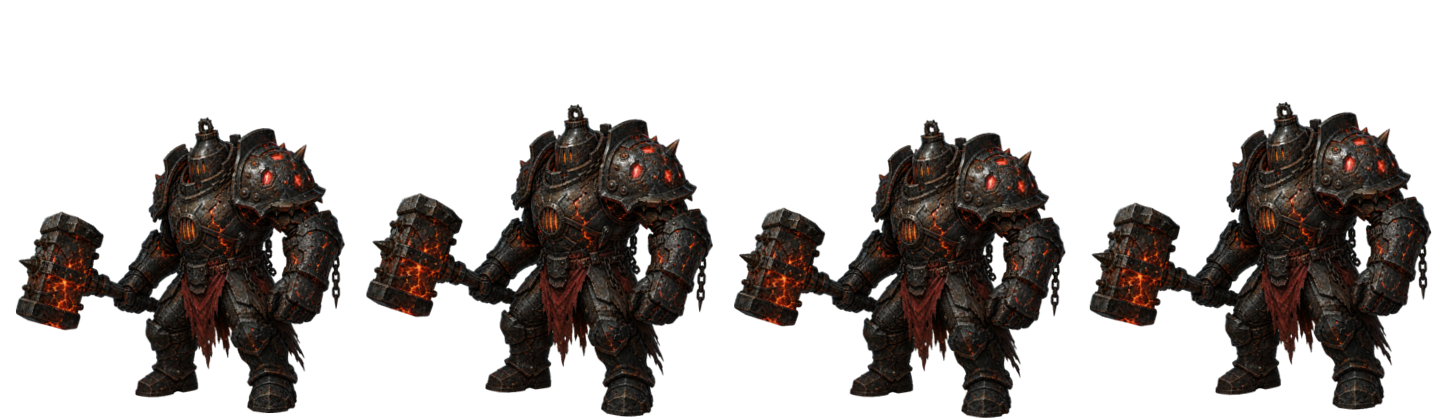
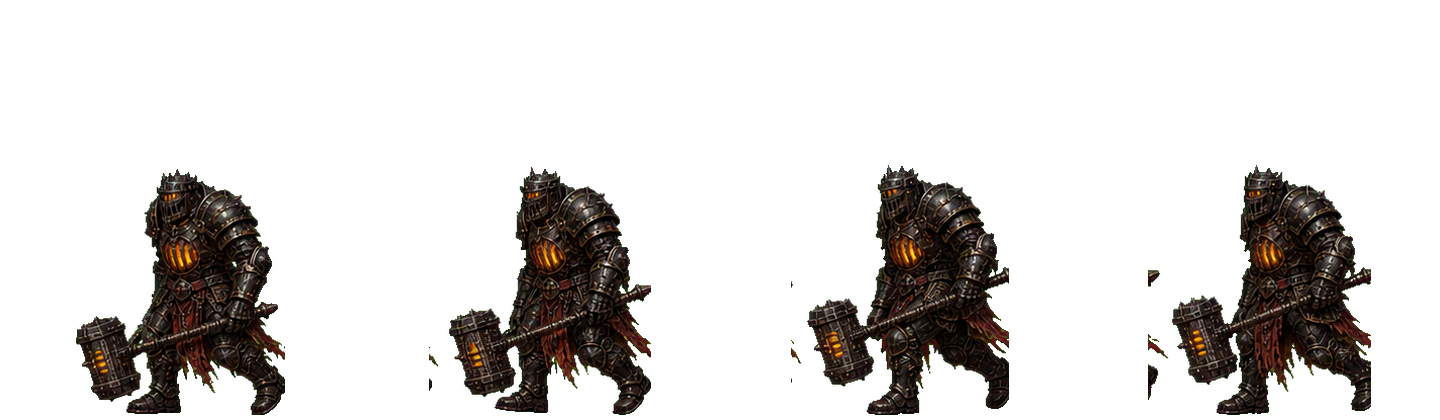
Refine enemy motion and encounter spacing

diff --git a/src/App.css b/src/App.css
@@ -737,8 +737,55 @@ button {
   animation-iteration-count: infinite;
 }
 
+.stage-combat .enemy-sprite.is-attacking::before,
+.stage-combat .enemy-sprite.is-attacking::after {
+  content: "";
+  position: absolute;
+  pointer-events: none;
+  z-index: 6;
+}
+
+.stage-combat .enemy-sprite.is-attacking::before {
+  left: clamp(-116px, -8.6vw, -72px);
+  bottom: clamp(132px, 17vw, 236px);
+  width: clamp(92px, 8.6vw, 132px);
+  height: clamp(38px, 4.6vw, 68px);
+  border-radius: 999px;
+  background:
+    radial-gradient(circle at 18% 52%, rgba(255, 231, 142, 0.95) 0 5%, transparent 18%),
+    linear-gradient(105deg, transparent 0 8%, rgba(255, 210, 102, 0.92) 12%, rgba(235, 73, 34, 0.74) 43%, transparent 78%);
+  filter: blur(0.2px) drop-shadow(0 0 8px rgba(255, 107, 46, 0.74));
+  opacity: 0;
+  transform: rotate(-10deg) scaleX(0.72);
+  transform-origin: 100% 50%;
+  animation: enemyAttackSlashFx 620ms steps(2, end) infinite;
+}
+
+.stage-combat .enemy-sprite.is-attacking::after {
+  left: clamp(-54px, -3.7vw, -34px);
+  bottom: clamp(112px, 14vw, 198px);
+  width: clamp(38px, 3.8vw, 62px);
+  height: clamp(34px, 3.8vw, 58px);
+  background:
+    radial-gradient(circle, rgba(255, 235, 164, 0.92) 0 12%, rgba(255, 123, 43, 0.66) 20%, transparent 58%),
+    conic-gradient(from 24deg, transparent 0 12%, rgba(255, 191, 90, 0.88) 14% 18%, transparent 20% 36%, rgba(231, 62, 35, 0.8) 39% 43%, transparent 46%);
+  clip-path: polygon(50% 0, 64% 34%, 100% 42%, 68% 58%, 76% 100%, 50% 70%, 20% 100%, 30% 58%, 0 42%, 36% 34%);
+  opacity: 0;
+  transform: scale(0.62);
+  animation: enemyImpactSparkFx 620ms steps(2, end) infinite;
+}
+
+.stage-combat .enemy-sprite.enemy-sheet-beast.is-attacking::before {
+  bottom: clamp(86px, 11vw, 154px);
+  transform: rotate(3deg) scaleX(0.78);
+}
+
+.stage-combat .enemy-sprite.enemy-sheet-beast.is-attacking::after {
+  bottom: clamp(78px, 9.8vw, 136px);
+}
+
 .stage-combat .enemy-sprite.is-entering {
-  animation: enemyEnterFromRight 1.5s cubic-bezier(0.19, 0.82, 0.22, 1) both;
+  animation: enemyEnterFromRight 2.4s linear both;
   z-index: 2;
 }
 
@@ -763,13 +810,13 @@ button {
 @keyframes enemyEnterFromRight {
   0% {
     opacity: 0;
-    transform: translateX(42vw) translateY(0);
+    transform: translateX(46vw) translateY(0);
   }
-  12% {
+  8% {
     opacity: 1;
   }
-  55% {
-    transform: translateX(14vw) translateY(-4px);
+  50% {
+    transform: translateX(23vw) translateY(-3px);
   }
   100% {
     opacity: 1;
@@ -782,6 +829,22 @@ button {
   100% { transform: translateX(0) scaleX(1) scaleY(1); }
   42% { transform: translateX(-18px) scaleX(1.08) scaleY(0.96); }
   64% { transform: translateX(-8px) scaleX(1.03) scaleY(0.98); }
+}
+
+@keyframes enemyAttackSlashFx {
+  0%,
+  32% { opacity: 0; transform: translateX(18px) rotate(-10deg) scaleX(0.42); }
+  42% { opacity: 0.95; transform: translateX(-4px) rotate(-10deg) scaleX(1); }
+  68% { opacity: 0.42; transform: translateX(-14px) rotate(-10deg) scaleX(1.08); }
+  100% { opacity: 0; transform: translateX(-22px) rotate(-10deg) scaleX(1.12); }
+}
+
+@keyframes enemyImpactSparkFx {
+  0%,
+  40% { opacity: 0; transform: scale(0.42) rotate(0deg); }
+  48% { opacity: 0.95; transform: scale(1.05) rotate(12deg); }
+  72% { opacity: 0.35; transform: scale(0.88) rotate(28deg); }
+  100% { opacity: 0; transform: scale(0.64) rotate(40deg); }
 }
 
 .enemy-frame-viewport {

diff --git a/src/ui/__tests__/stageActors.test.ts b/src/ui/__tests__/stageActors.test.ts
@@ -1,6 +1,7 @@
 import { describe, expect, it } from 'vitest'
+import { ENCOUNTER_DISTANCE } from '../../engine/progression'
 import { createStarterState } from '../../persistence/starterState'
-import { deriveStageActors, ENEMY_ENTER_DURATION_MS } from '../stageActors'
+import { deriveStageActors, ENEMY_ENTER_DURATION_MS, ENEMY_POSITION_TRANSITION } from '../stageActors'
 
 describe('deriveStageActors', () => {
   it('uses walk resources while traveling', () => {
@@ -13,10 +14,10 @@ describe('deriveStageActors', () => {
     expect(scene.enemies.length).toBeGreaterThan(0)
     expect(scene.enemies[0].frame.kind).toBe('walk')
     expect(scene.enemies[0].frame.src).toContain(`${state.enemyGroup.members[0].enemyDefId.replaceAll('_', '-')}-walk-sheet.png`)
-    expect(scene.enemies[0].transition).toBe('left 0.9s linear')
+    expect(scene.enemies[0].transition).toBe(ENEMY_POSITION_TRANSITION)
   })
 
-  it('uses aligned attack frames and pauses the same enemy sheet in combat', () => {
+  it('uses aligned attack frames and skill vfx on the hero hit frame', () => {
     const state = {
       ...createStarterState(),
       stageMode: 'combat' as const,
@@ -30,10 +31,20 @@ describe('deriveStageActors', () => {
     }
     expect(scene.hitFrameActive).toBe(true)
     expect(scene.vfx?.src).toContain('/assets/game/')
+    expect(scene.enemies[0].transition).toBe(ENEMY_POSITION_TRANSITION)
+    expect(scene.enemies[0].showHealthbar).toBe(true)
+  })
+
+  it('keeps enemies idle before the presentation attack window', () => {
+    const state = {
+      ...createStarterState(),
+      stageMode: 'combat' as const,
+    }
+    const scene = deriveStageActors(state, 0)
+
+    expect(scene.enemies[0].state).toBe('idle')
     expect(scene.enemies[0].frame.kind).toBe('walk')
     expect(scene.enemies[0].frame.className).toContain('enemy-walk-sheet-idle')
-    expect(scene.enemies[0].transition).toBe('none')
-    expect(scene.enemies[0].showHealthbar).toBe(true)
   })
 
   it('marks combat hit feedback from floating text', () => {
@@ -66,7 +77,7 @@ describe('deriveStageActors', () => {
         ],
       },
     }
-    const scene = deriveStageActors(state, 1)
+    const scene = deriveStageActors(state, 2)
 
     expect(scene.enemies[0].state).toBe('attack')
     expect(scene.enemies[0].frame.className).toBe('enemy-attack-sheet')
@@ -98,12 +109,33 @@ describe('deriveStageActors', () => {
             },
           ],
         },
-      }, 1)
+      }, 2)
 
       expect(scene.enemies[0].state).toBe('attack')
       expect(scene.enemies[0].frame.className).toBe('enemy-attack-sheet')
       expect(scene.enemies[0].frame.src).toContain(`enemy-${enemyDefId.replaceAll('_', '-')}-attack-sheet.png`)
     }
+  })
+
+  it('keeps a surviving enemy on its assigned formation slot after earlier slots are empty', () => {
+    const base = createStarterState()
+    const state = {
+      ...base,
+      stageMode: 'combat' as const,
+      enemyGroup: {
+        ...base.enemyGroup,
+        x: base.hero.x + ENCOUNTER_DISTANCE,
+        members: [
+          {
+            ...base.enemyGroup.members[0],
+            formationSlot: 2,
+          },
+        ],
+      },
+    }
+    const scene = deriveStageActors(state, 0)
+
+    expect(scene.enemies[0].xPct).toBe(70)
   })
 
   it('walks newly streamed enemies in from offscreen before combat actions', () => {

diff --git a/src/engine/combatLoop.ts b/src/engine/combatLoop.ts
@@ -81,6 +81,7 @@ export function advanceCombat(current: GameState, deltaMs = TICK_MS): GameState 
       return {
         ...current,
         hero: { ...hero, x: newHeroX },
+        enemyGroup: { ...current.enemyGroup, x: newHeroX + ENCOUNTER_DISTANCE },
         gameTimeMs,
         bossChoicePending: true,
         floatingTexts,
@@ -95,7 +96,7 @@ export function advanceCombat(current: GameState, deltaMs = TICK_MS): GameState 
       gameTimeMs,
       stageMode: 'combat',
       stageModeUntil: 0,
-      enemyGroup: { ...current.enemyGroup, lastSpawnAtMs: gameTimeMs },
+      enemyGroup: { ...current.enemyGroup, x: newHeroX + ENCOUNTER_DISTANCE, lastSpawnAtMs: gameTimeMs },
       combatLog: addLog(current.combatLog, `遭遇 ${describeGroup(current.enemyGroup)}，矿道行军停止。`),
       floatingTexts,
       lastDrop: undefined,
@@ -104,7 +105,11 @@ export function advanceCombat(current: GameState, deltaMs = TICK_MS): GameState 
   }
 
   // === Combat：位置冻结，对群组施加伤害 ===
-  const members = current.enemyGroup.members.map((enemy) => ({ ...enemy, bleed: { ...enemy.bleed } }))
+  const members = current.enemyGroup.members.map((enemy, index) => ({
+    ...enemy,
+    formationSlot: enemy.formationSlot ?? index,
+    bleed: { ...enemy.bleed },
+  }))
 
   // 1. 流血 tick（每只独立结算）
   for (const enemy of members) {
@@ -271,6 +276,7 @@ function reinforceCombatStream(
 
   const enemy = createEnemyForStage(current.progression.zoneId, current.progression.stage, rng)
   enemy.spawnedAtMs = gameTimeMs
+  enemy.formationSlot = pickOpenFormationSlot(aliveMembers)
   if (ENEMY_REINFORCE_MAX_ACTIVE > 1) {
     enemy.maxLife = Math.round(enemy.maxLife * 0.55)
     enemy.currentLife = enemy.maxLife
@@ -281,6 +287,14 @@ function reinforceCombatStream(
     members: [...aliveMembers, enemy],
     lastSpawnAtMs: gameTimeMs,
   }
+}
+
+function pickOpenFormationSlot(aliveMembers: EnemyInstance[]): number {
+  const occupied = new Set(aliveMembers.map((enemy, index) => enemy.formationSlot ?? index))
+  for (let slot = 0; slot < ENEMY_REINFORCE_MAX_ACTIVE; slot += 1) {
+    if (!occupied.has(slot)) return slot
+  }
+  return aliveMembers.length
 }
 
 function coolDownSkills(current: GameState, deltaMs: number) {

diff --git a/src/ui/stageActors.ts b/src/ui/stageActors.ts
@@ -6,7 +6,8 @@ import { getEnemyMemberViewX, getStageMotionState, HERO_ATTACK_DURATION_MS, HERO
 export { HERO_ATTACK_DURATION_MS, HERO_ATTACK_FRAME_COUNT }
 
 export const gameAssetBase = '/assets/game'
-export const ENEMY_ENTER_DURATION_MS = 1500
+export const ENEMY_ENTER_DURATION_MS = 2400
+export const ENEMY_POSITION_TRANSITION = 'left 0.9s linear'
 export const enemyAttackSheetIds = new Set([
   'forge_serpent',
   'bone_miner',
@@ -105,14 +106,15 @@ export function deriveStageActors(game: GameState, heroAttackFrame: number): Sta
     },
     enemies: game.enemyGroup.members.map((enemy, idx) => {
       const familyClass = enemyFamilyClass(enemy.enemyDefId)
+      const formationSlot = enemy.formationSlot ?? idx
       const hpPct = Math.max(0, Math.round((enemy.currentLife / enemy.maxLife) * 100))
       const isEntering = !isTraveling && typeof enemy.spawnedAtMs === 'number' && game.gameTimeMs - enemy.spawnedAtMs < ENEMY_ENTER_DURATION_MS
-      const isAttacking = !isTraveling && !isEntering && game.gameTimeMs % HERO_ATTACK_DURATION_MS >= HERO_ATTACK_DURATION_MS * 0.45
+      const isAttacking = !isTraveling && !isEntering && heroAttackFrame >= 2
       return {
         enemy,
-        xPct: getEnemyMemberViewX(motion.enemyGroupViewX, idx),
+        xPct: getEnemyMemberViewX(motion.enemyGroupViewX, formationSlot),
         rootClassName: `enemy-sprite enemy-rank-${enemy.rank} ${familyClass} ${isEntering ? 'is-entering' : ''} ${isAttacking ? 'is-attacking' : ''} ${isHitTick && enemy.currentLife > 0 && !isEntering ? 'is-hit' : ''}`,
-        transition: isTraveling ? 'left 0.9s linear' : 'none',
+        transition: ENEMY_POSITION_TRANSITION,
         hpPct,
         showHealthbar: !isTraveling && !isEntering,
         showCrown: enemy.rank !== 'normal' && !isTraveling && !isEntering,

diff --git a/src/engine/__tests__/combatLoop.test.ts b/src/engine/__tests__/combatLoop.test.ts
@@ -29,6 +29,7 @@ describe('combat loop stage movement', () => {
     }
     const next = advanceCombat(closing, 900)
     expect(next.stageMode).toBe('combat')
+    expect(next.enemyGroup.x).toBe(next.hero.x + ENCOUNTER_DISTANCE)
   })
 
   it('clears the group, spawns next group ahead, and keeps hero.x advancing', () => {
@@ -76,7 +77,9 @@ describe('combat loop stage movement', () => {
 
     expect(next.stageMode).toBe('combat')
     expect(next.enemyGroup.members).toHaveLength(1)
-    expect(next.enemyGroup.members.some((enemy) => enemy.id === second.id)).toBe(true)
+    const remaining = next.enemyGroup.members.find((enemy) => enemy.id === second.id)
+    expect(remaining).toBeTruthy()
+    expect(remaining?.formationSlot).toBe(1)
   })
 
   it('streams reinforcement enemies by time during combat', () => {
@@ -103,6 +106,7 @@ describe('combat loop stage movement', () => {
     expect(next.enemyGroup.members).toHaveLength(2)
     const reinforcement = next.enemyGroup.members.find((enemy) => enemy.id !== second.id)
     expect(reinforcement?.spawnedAtMs).toBe(next.gameTimeMs)
+    expect(reinforcement?.formationSlot).toBe(0)
     expect(next.enemyGroup.lastSpawnAtMs).toBe(next.gameTimeMs)
   })
 

diff --git a/src/engine/progression.ts b/src/engine/progression.ts
@@ -14,7 +14,7 @@ export const HERO_VIEW_X = 30
 /** 新一波敌群相对英雄当前位置生成在世界右侧多远。需要大于视口宽度，保证从屏幕外走入。 */
 export const ENEMY_SPAWN_AHEAD = 86
 /** 英雄与敌群世界距离 < 此值，触发遭遇战。 */
-export const ENCOUNTER_DISTANCE = 32
+export const ENCOUNTER_DISTANCE = 24
 export const STAGES_PER_ZONE = 10
 
 const zoneIdsByStage = ['black_forge_mines', 'bleeding_furnace', 'silent_choir', 'ossuary_keep', 'pale_wastes', 'iron_caravan', 'crimson_keep', 'moonblood_crypt', 'oath_abyss', 'forgemaw_core'] as const
@@ -74,6 +74,7 @@ export function createEnemyGroupForStage(
   const members: EnemyInstance[] = []
   for (let i = 0; i < count; i += 1) {
     const enemy = createEnemyForStage(resolvedZoneId, stage, rng)
+    enemy.formationSlot = i
     if (count > 1 && !isBoss) {
       enemy.maxLife = Math.round(enemy.maxLife * 0.55)
       enemy.currentLife = enemy.maxLife

diff --git a/src/ui/__tests__/motion.test.ts b/src/ui/__tests__/motion.test.ts
@@ -12,7 +12,7 @@ describe('stage motion projection', () => {
   it('clamps traveling enemies at the encounter line to avoid overshooting into combat', () => {
     const motion = getStageMotionState({
       stageMode: 'travel',
-      heroX: 41,
+      heroX: 49,
       enemyGroupX: 70,
     })
 
@@ -24,7 +24,7 @@ describe('stage motion projection', () => {
     const motion = getStageMotionState({
       stageMode: 'combat',
       heroX: 38,
-      enemyGroupX: 70,
+      enemyGroupX: 62,
     })
 
     expect(motion.enemyGroupViewX).toBe(HERO_VIEW_X + ENCOUNTER_DISTANCE)

diff --git a/src/domain/types.ts b/src/domain/types.ts
@@ -231,6 +231,8 @@ export interface EnemyInstance {
   maxLife: number
   armor: number
   bleed: BleedState
+  /** 队形槽位。渲染位置按这个稳定槽位计算，避免前排死亡后后排因数组下标变化瞬移。 */
+  formationSlot?: number
   /** 战斗中补位刷新的入场时间。存在时 UI 会先播放从屏幕外走入的动作。 */
   spawnedAtMs?: number
 }
